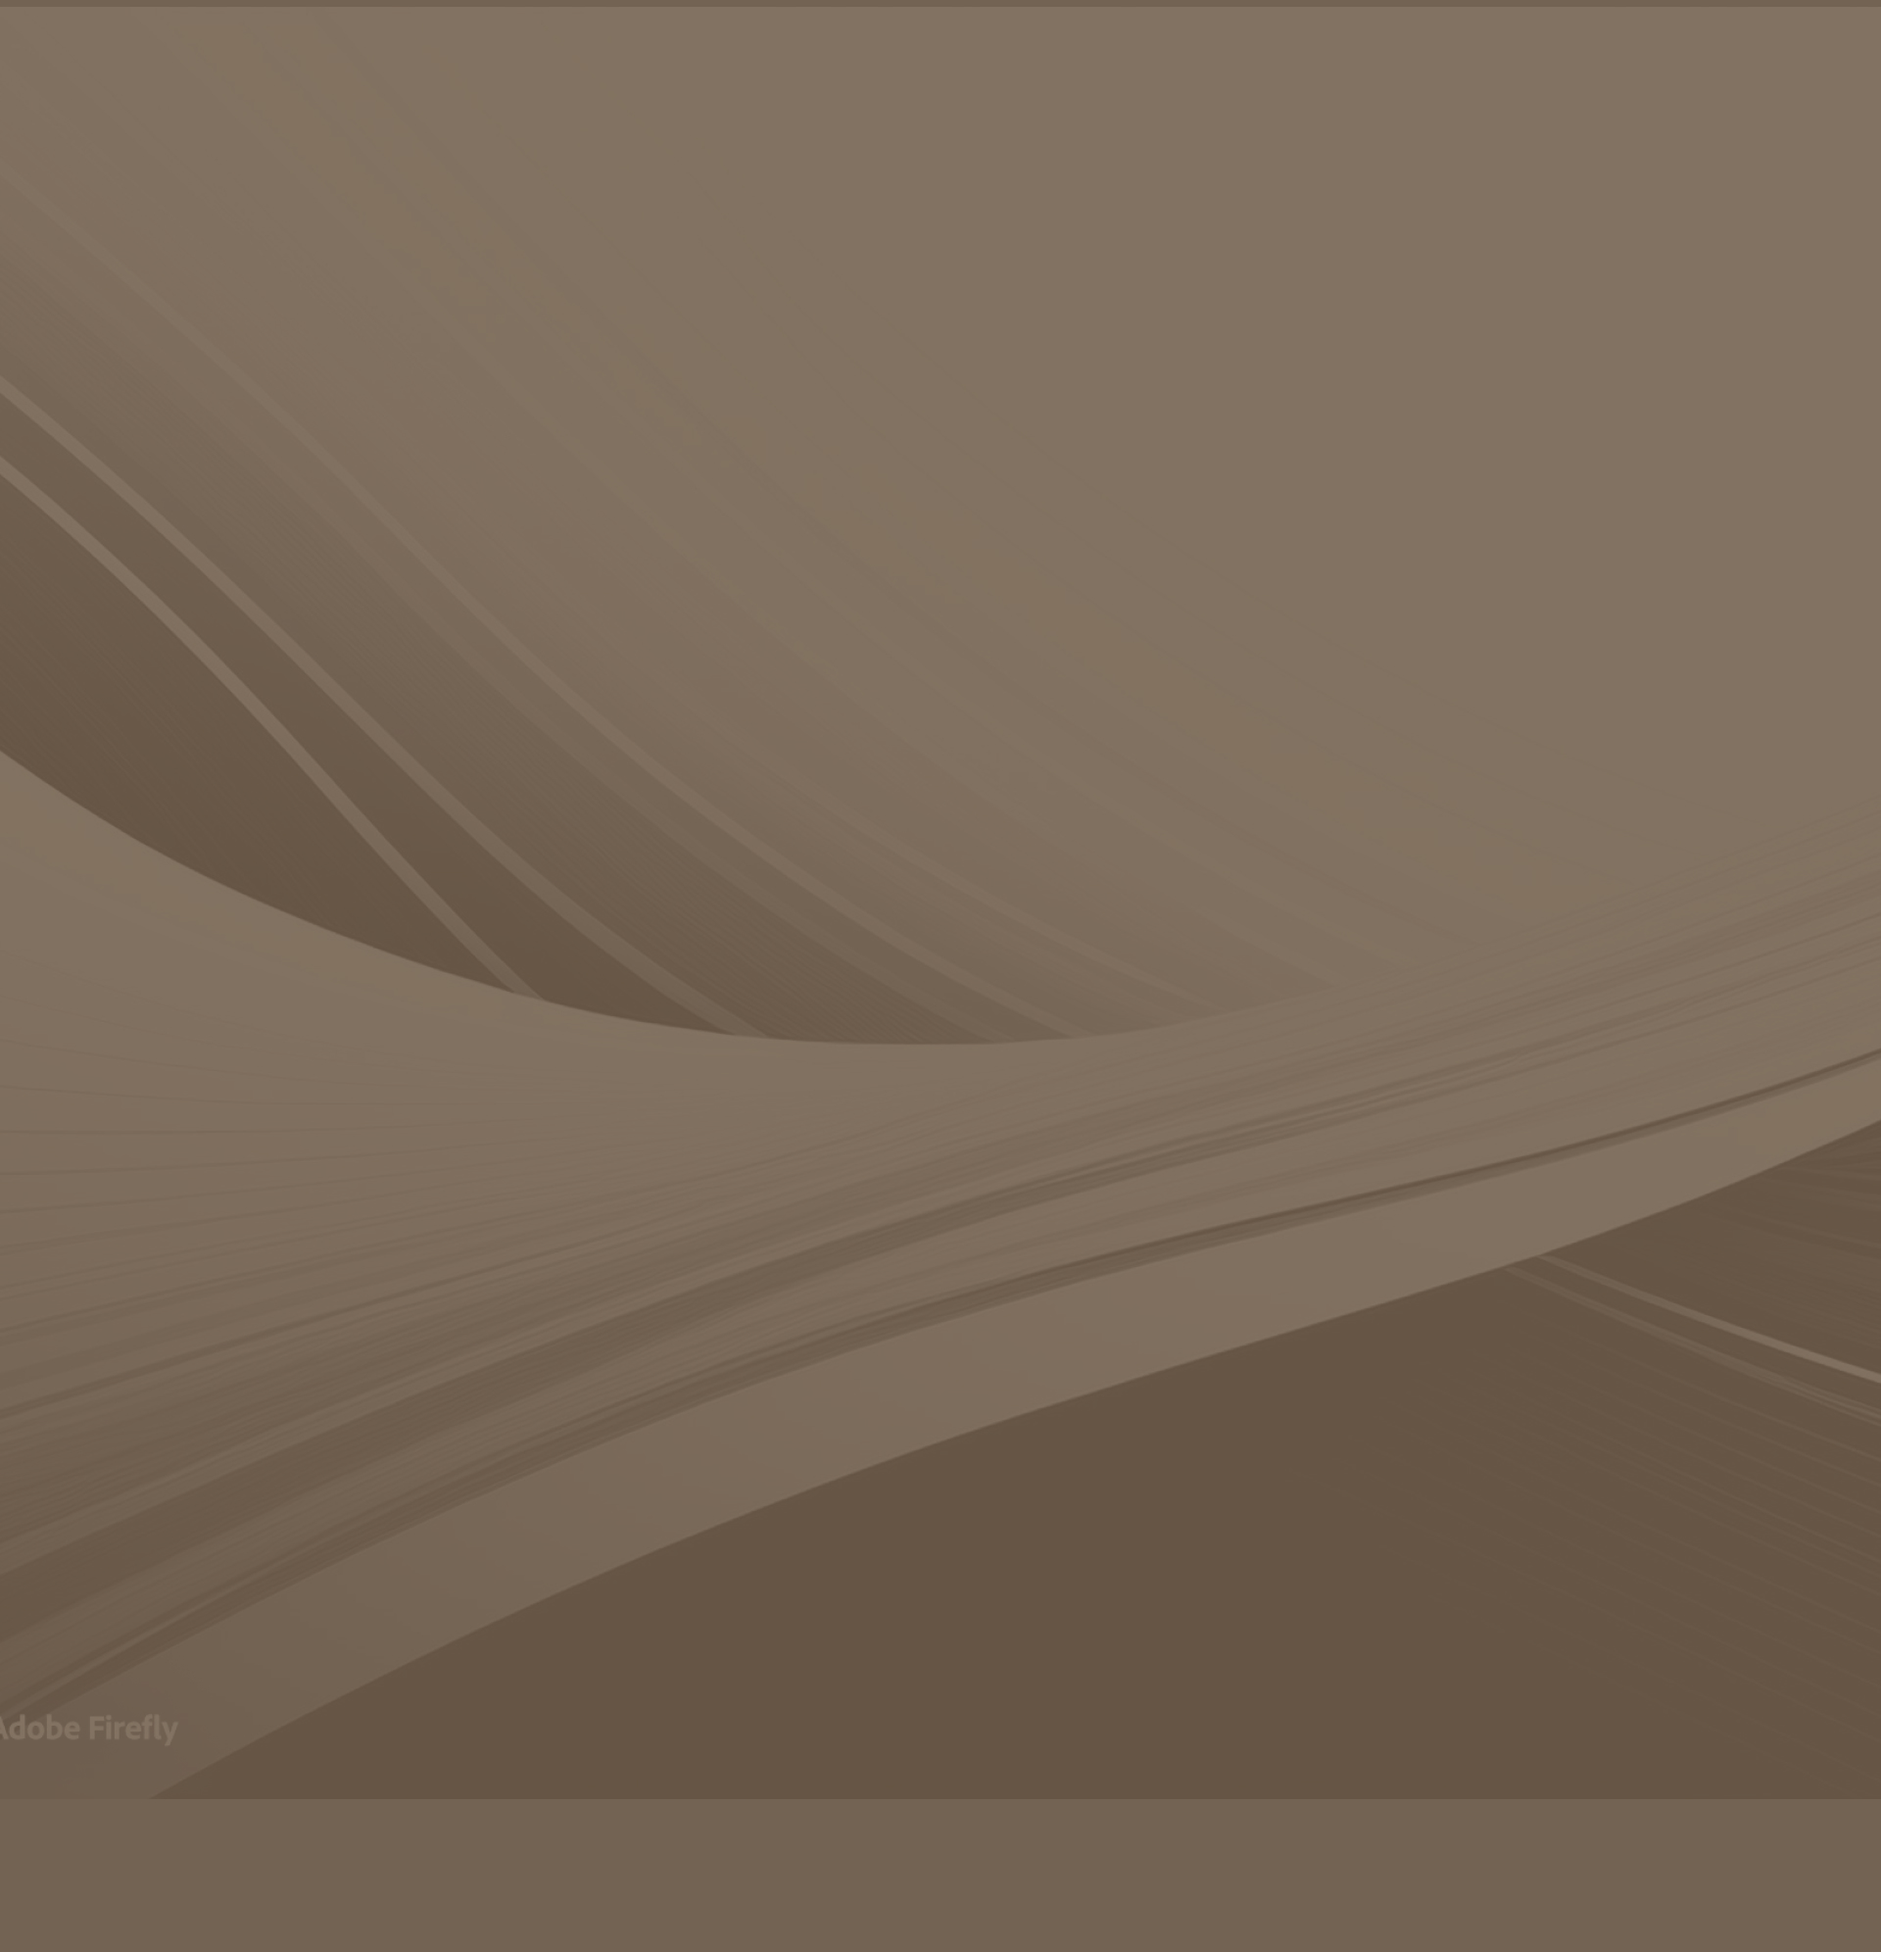
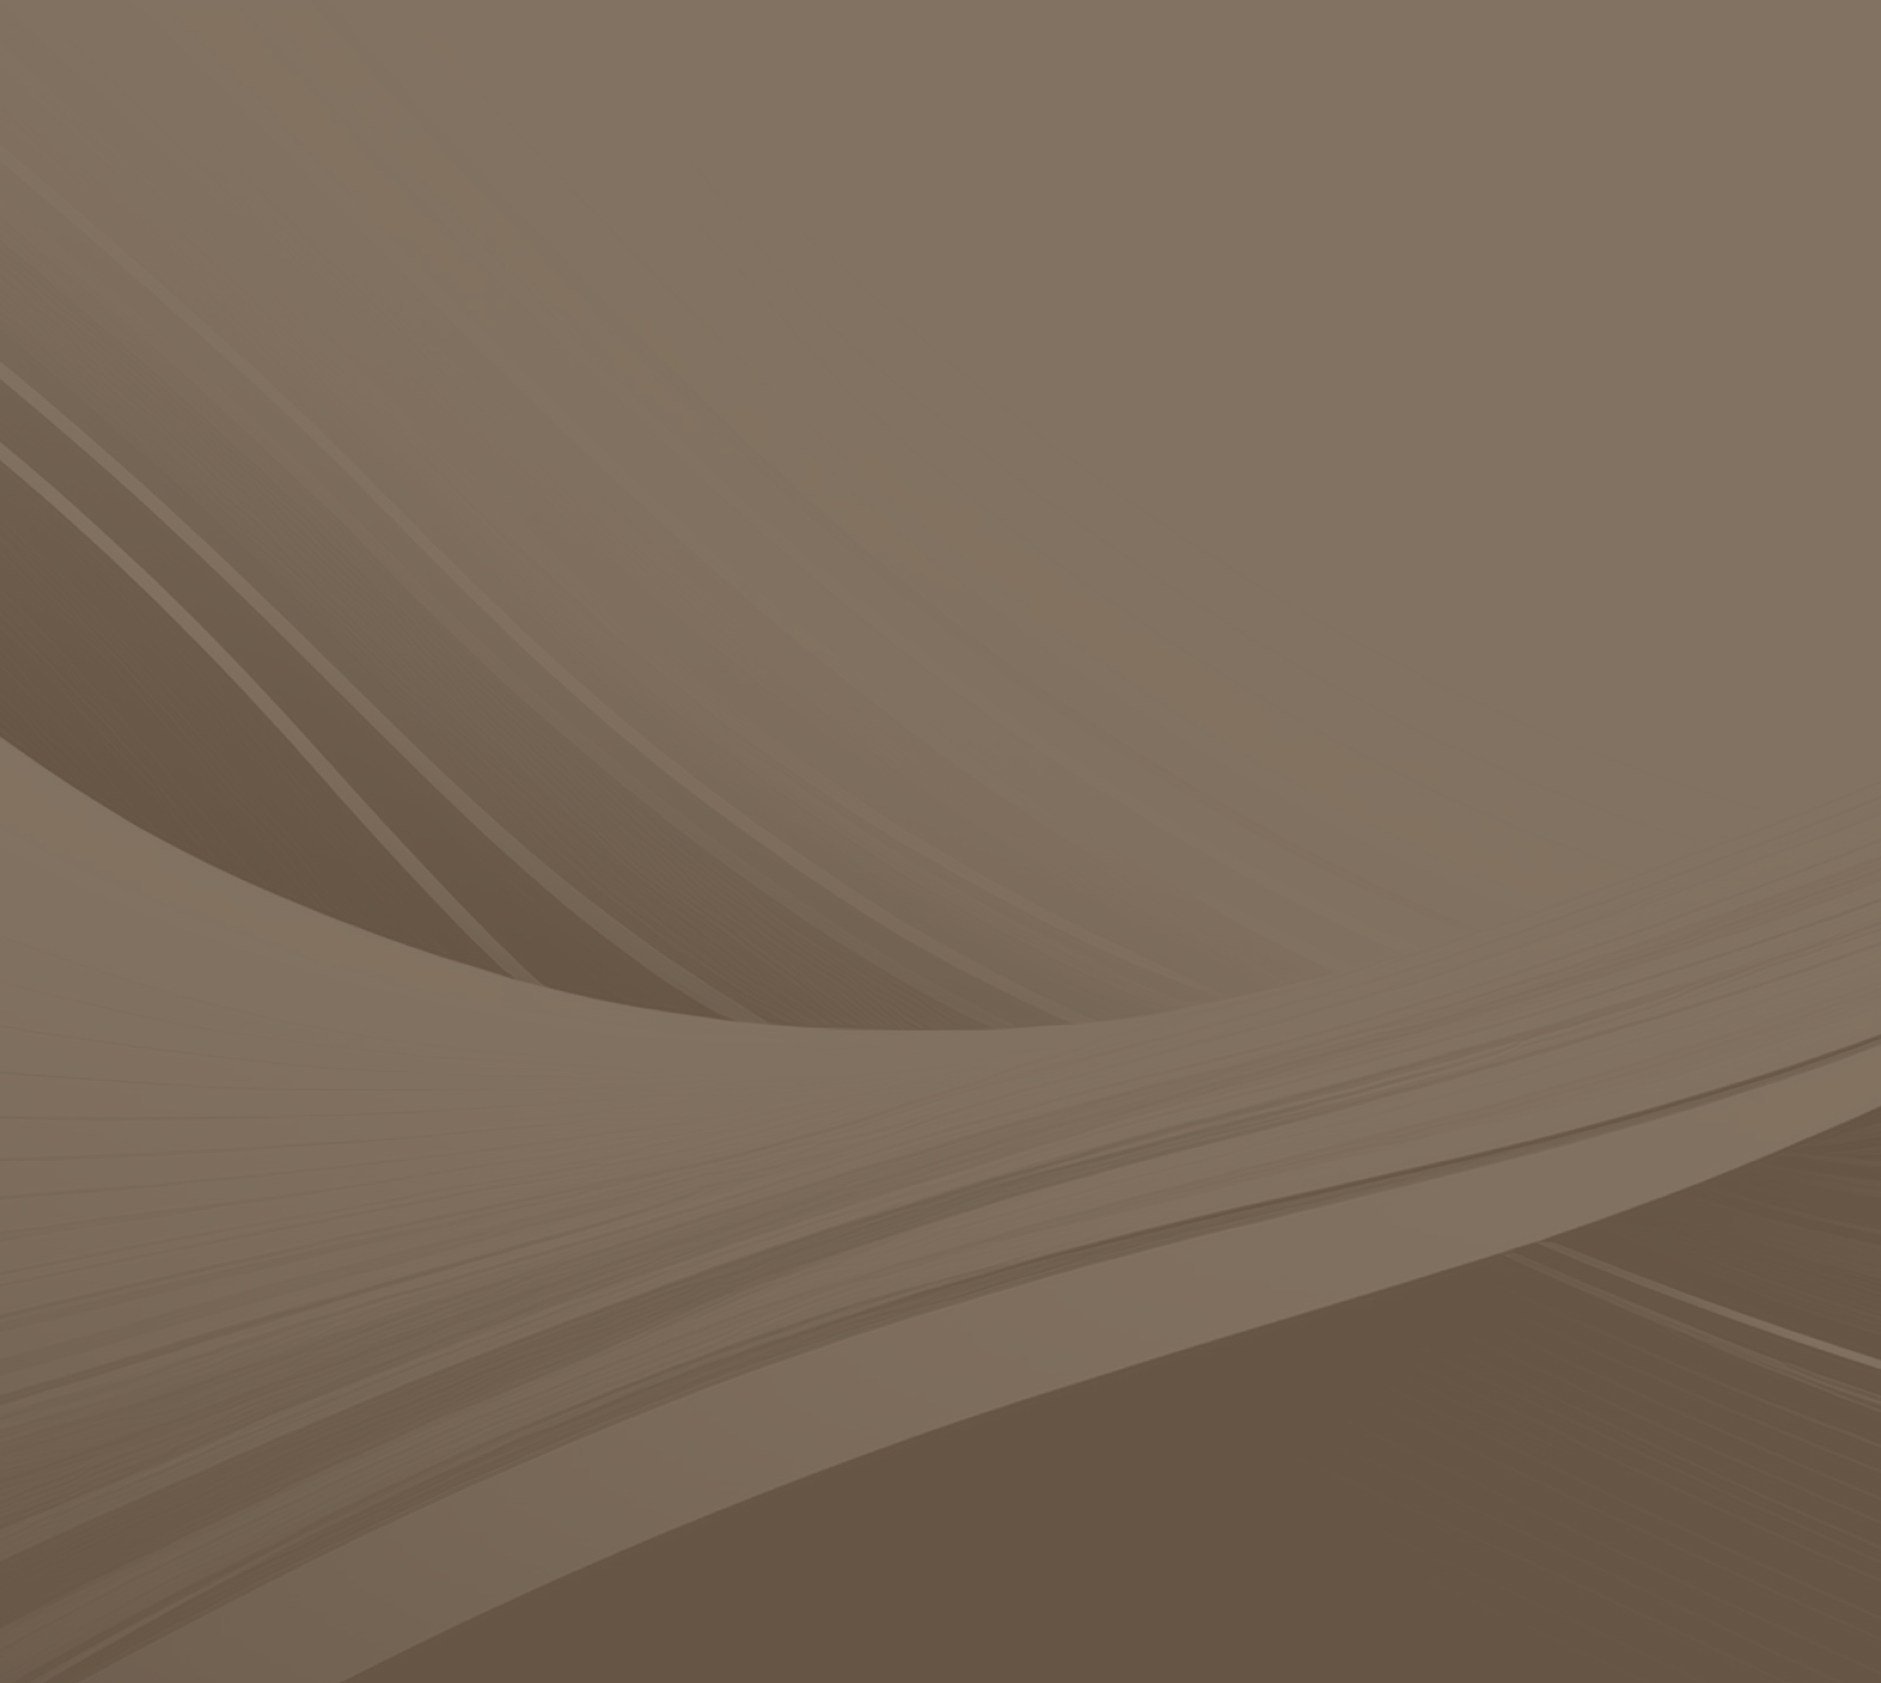
mobile - main about background 이미지 수정

Changed region(s): [[0.5, 0.5553, 1.0, 0.8329], [0.0, 0.3702, 0.375, 0.617], [0.9688, 0.8021, 1.0, 0.8329]]

diff --git a/src/app/ui/main/about.tsx b/src/app/ui/main/about.tsx
@@ -3,10 +3,9 @@ import bgImage from "../../images/main_about.jpg";
 export default function About() {
   return (
     <div
-      className="flex h-[450px] items-center justify-center bg-fixed bg-center bg-repeat text-center md:h-[474px]"
+      className="bg-size-200 flex h-[450px] items-center justify-center bg-top bg-repeat text-center md:h-[474px] md:bg-cover md:bg-fixed md:bg-center"
       style={{
         backgroundImage: `url(${bgImage.src})`,
-        backgroundSize: "1920px",
       }}
     >
       <div className="max-w-screen-xl text-white">

diff --git a/tailwind.config.ts b/tailwind.config.ts
@@ -13,6 +13,9 @@ const config: Config = {
         "gradient-conic":
           "conic-gradient(from 180deg at 50% 50%, var(--tw-gradient-stops))",
       },
+      backgroundSize: {
+        "size-200": "200%",
+      },
       colors: {
         mainColor: "#EAE3D3",
         pointColor: "#7D604C",
